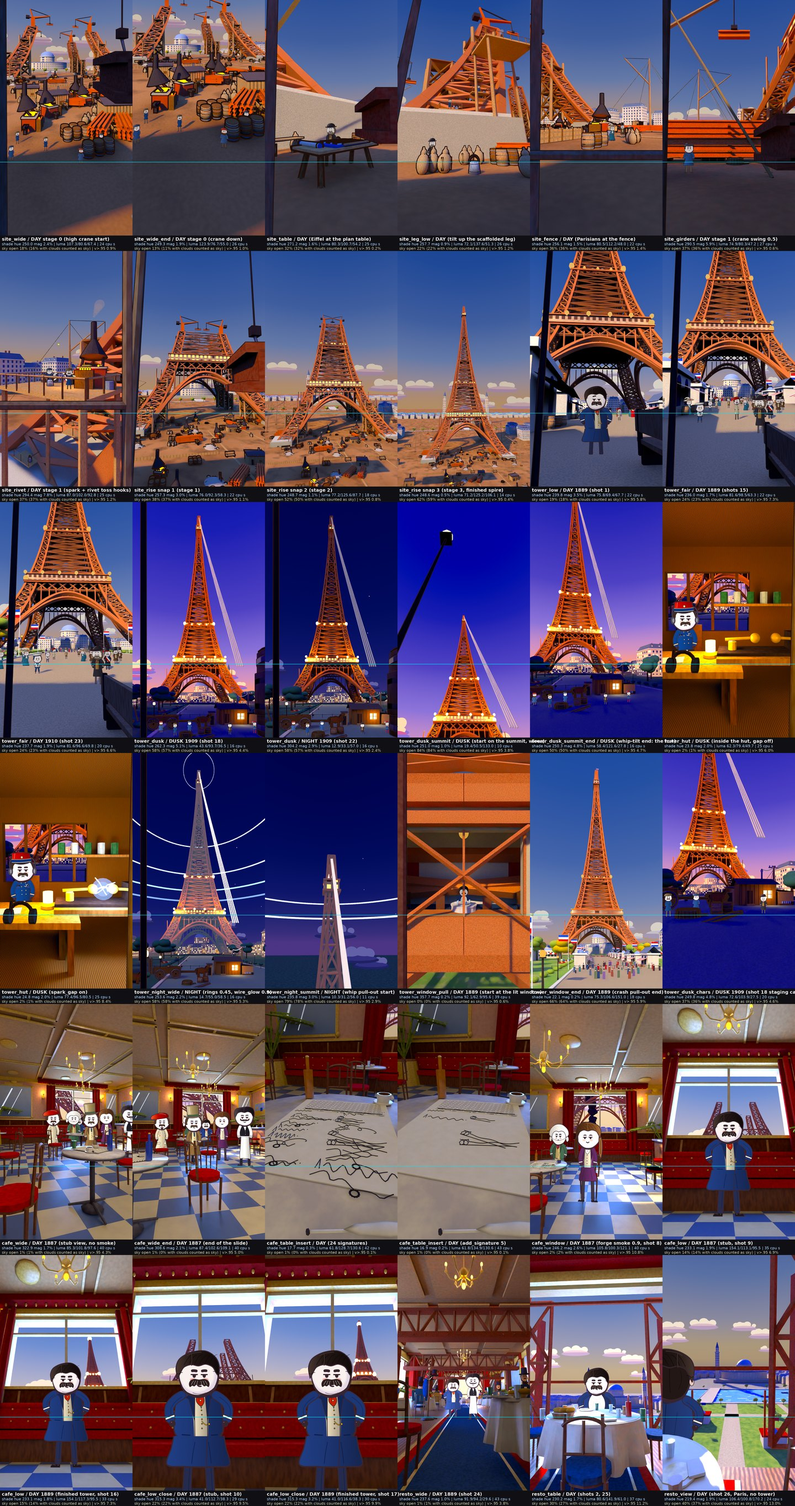
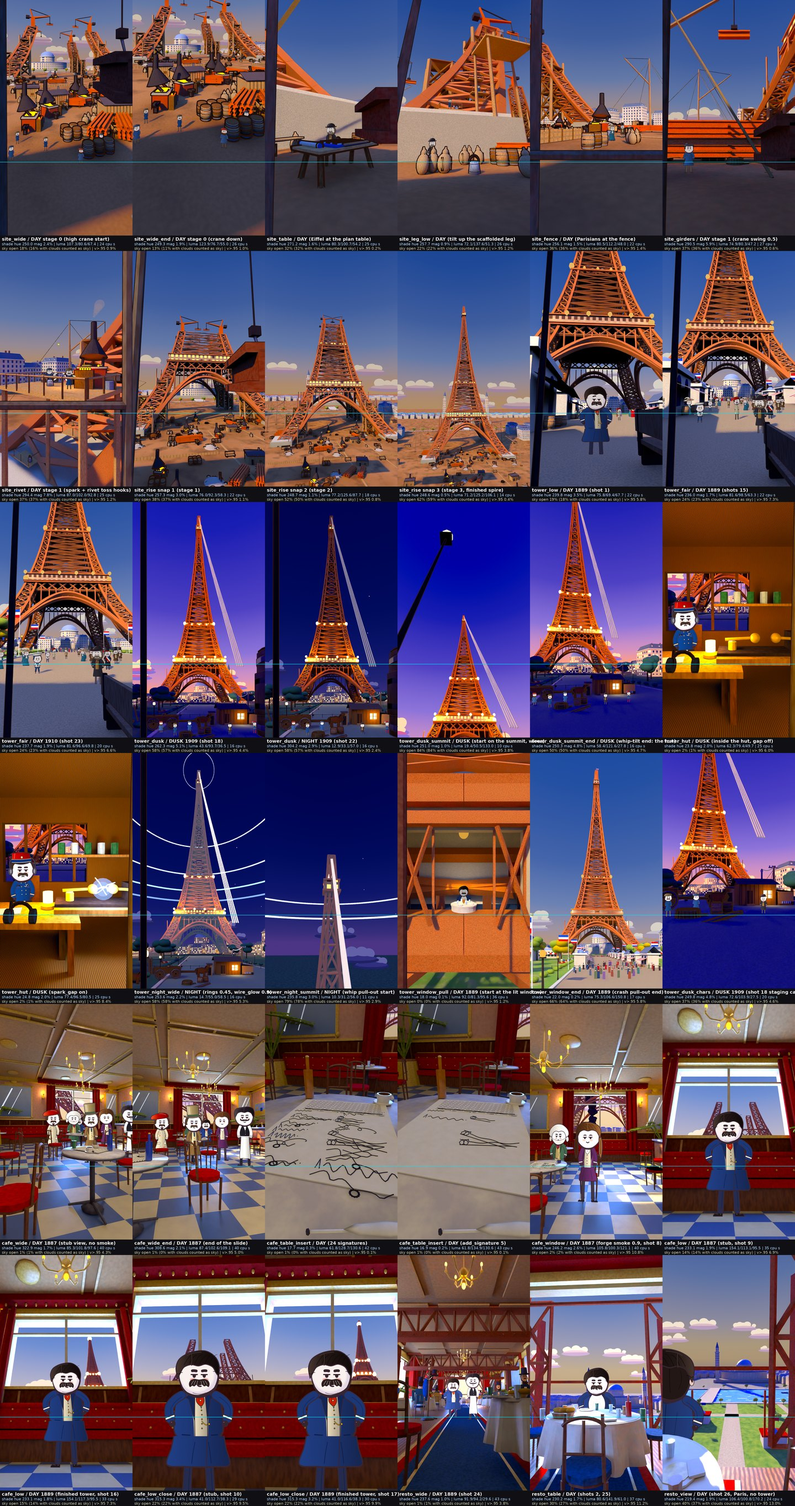
Film 20: T12 clear centre pane, brighter room

Changed region(s): [[0.5, 0.5297, 0.6875, 0.6232]]

diff --git a/film/v3/set3d20/tower20.py b/film/v3/set3d20/tower20.py
@@ -168,8 +168,10 @@ def _window_gallery(M, A):
             a_, b_ = Vector((xa, yl, zs_[i])), Vector((xb, yl, zs_[i + 1])); c_, d_ = Vector((xb, yl, zs_[i])), Vector((xa, yl, zs_[i + 1]))
             mb.rod(IL, a_, b_, 0.14, 0.14, 4); mb.rod(IL, c_, d_, 0.14, 0.14, 4)
         for z in zs_: mb.rod(I, Vector((xa, yl, z)), Vector((xb, yl, z)), 0.16, 0.16, 4)
-    for sgn in (-1, 1): mb.rod(I, Vector((WIN_X - sgn * (WIN_W / 2), yg - 0.55, z0w)), Vector((WIN_X + sgn * (WIN_W / 2), yg - 0.55, z1w)), 0.12, 0.12, 4)
-    for sx in (-WIN_W / 2, 0.0, WIN_W / 2): mb.box(IL, (WIN_X + sx, wy - 0.25, (z0w + z1w) / 2), (0.1, 0.1, WIN_H))
+    for side in (-1, 1):                                    # X braces only in the two outer bays: the centre pane (2.6 m wide) stays clear for the diner
+        xo, xi = WIN_X + side * WIN_W / 2, WIN_X + side * 1.3
+        mb.rod(I, Vector((xo, yg - 0.55, z0w)), Vector((xi, yg - 0.55, z1w)), 0.1, 0.1, 4); mb.rod(I, Vector((xi, yg - 0.55, z0w)), Vector((xo, yg - 0.55, z1w)), 0.1, 0.1, 4)
+    for sx in (-WIN_W / 2, -1.3, 1.3, WIN_W / 2): mb.box(IL, (WIN_X + sx, wy - 0.25, (z0w + z1w) / 2), (0.1, 0.1, WIN_H))
     # interior glimpse
     yb = yg + 4.2; carpet = M['navy']
     mb.box(carpet, (WIN_X, (yg + yb) / 2, zf + 0.06), (14.0, yb - yg, 0.12)); mb.box(M['cream'], (WIN_X, yb, (zf + zt) / 2), (14.0, 0.2, zt - zf))
@@ -188,7 +190,7 @@ def _window_gallery(M, A):
     for dx in (-4.4, 0.0, 4.4):
         mb.rod(M['gold'], (WIN_X + dx, yg + 1.8, zt - 0.4), (WIN_X + dx, yg + 1.8, zt - 1.0), 0.04, 0.04, 5); mb.ell(M['lamp'], (WIN_X + dx, yg + 1.8, zt - 1.25), (0.3, 0.3, 0.38), (10, 8))
     STATE['window_room'] = mb.finish()
-    STATE['pt_lights'] = STATE.get('pt_lights', []) + [(Vector((WIN_X + dx, yg + 1.8, zt - 1.4)), (1.0, 0.72, 0.4), 420) for dx in (-4.4, 0.0, 4.4)] + [(Vector((WIN_X, yg + 2.6, zf + 1.6)), (1.0, 0.8, 0.55), 160)]
+    STATE['pt_lights'] = STATE.get('pt_lights', []) + [(Vector((WIN_X + dx, yg + 1.8, zt - 1.4)), (1.0, 0.72, 0.4), 800) for dx in (-4.4, 0.0, 4.4)] + [(Vector((WIN_X, yg + 2.2, zf + 1.7)), (1.0, 0.82, 0.58), 700), (Vector((WIN_X, yg + 1.0, zf + 1.5)), (1.0, 0.85, 0.65), 400)]
     STATE['win_floor'] = zf; STATE['win_ag'] = 36.8
 
 # ------------------------------------------------------------------ avenue, trees, lamps
